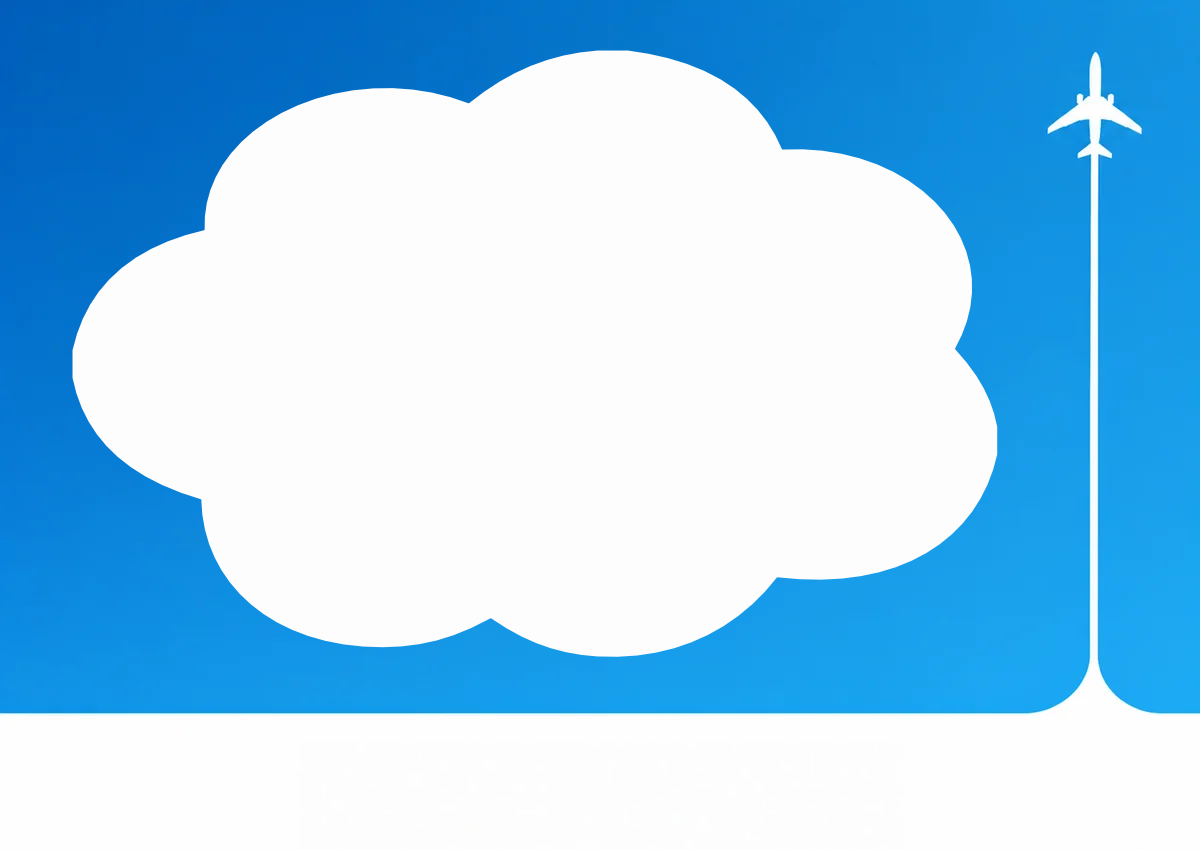
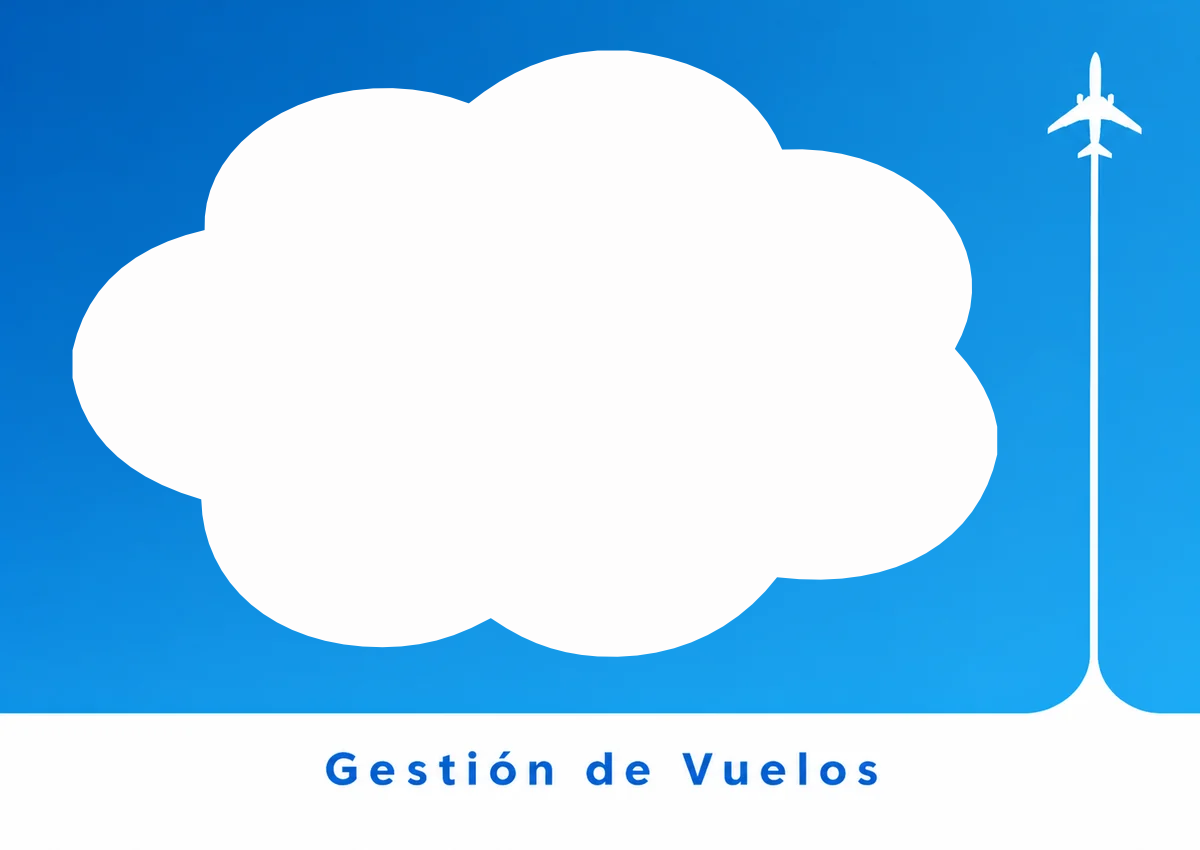
ventanita de gestion de vuelos

Changed region(s): [[0.2467, 0.8871, 0.4625, 0.9482], [0.4933, 0.8871, 0.74, 0.9482]]

diff --git a/InterfazGrafica.cpp b/InterfazGrafica.cpp
@@ -55,8 +55,16 @@ void InterfazGrafica::mostrarPantallaPrincipal(){
 
 void InterfazGrafica::mostrarPantallaAdministrador(){
 	DrawTexture(fondoRegistros, 0, 0, WHITE);
+
+	DrawText("ADMINISTRACION", 365, 176, 40, BLUE);
+
+	Rectangle btnAeronaves = {380, 290, 300, 60};
+	Rectangle btnRutas = {380, 390, 300, 60};
+	DrawRectangleRec(btnAeronaves, BLUE);
+	DrawRectangleRec(btnRutas, BLUE);
 	
-	//Rectangle btn
+	DrawText("AERONAVES", 434, 305, 30, WHITE);
+	DrawText("RUTAS", 479, 405, 30, WHITE);
 }
 
 
